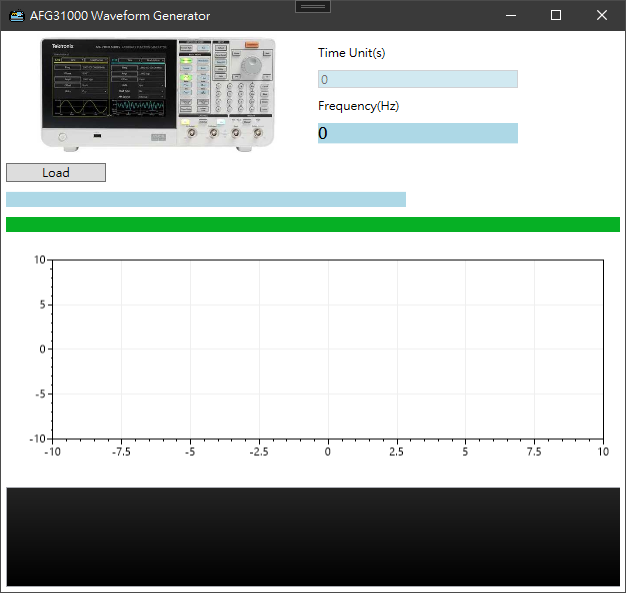
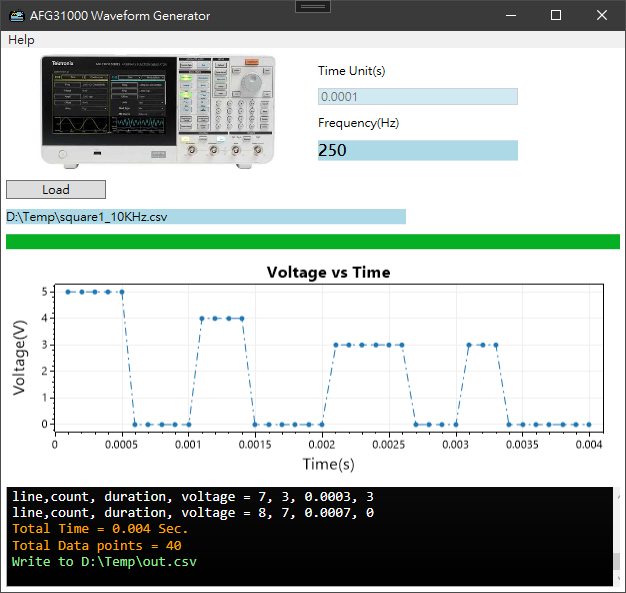
App Update
- add help
- update readme

diff --git a/AFG Waveform Editor/MainWindow.xaml b/AFG Waveform Editor/MainWindow.xaml
@@ -9,6 +9,13 @@
         xmlns:consoleControl="clr-namespace:ConsoleControl.WPF;assembly=ConsoleControl.WPF"
         Title="AFG31000 Waveform Generator" Icon="/function_generator.png" Width="640" Height="600">
     <DockPanel x:Name="mainPanel">
+        <Menu DockPanel.Dock="Top" HorizontalAlignment="Right">
+            <MenuItem Header="Help" >
+                <MenuItem Header="User Guide" Command="{Binding GotoUserGuideCommand}"/>
+                <MenuItem Header="Tektronix" Command="{Binding GotoTektronicCommand}"/>
+            </MenuItem>
+        </Menu>
+        <Separator DockPanel.Dock="Top" Height="5"></Separator>
         <UniformGrid Columns="2" DockPanel.Dock="Top">
             <StackPanel>
                 <Image Source="/AFG31000-Arbitrary-Function-Generator.png" Width="240"/>
@@ -24,6 +31,7 @@
                 </StackPanel>
             </StackPanel>
         </UniformGrid>
+        <Separator DockPanel.Dock="Top" Height="5"></Separator>
         <StackPanel  DockPanel.Dock="Top" HorizontalAlignment="Left">
             <Button Command="{Binding LoadFileCommand}" Width="100" Margin="5,5,5,5" HorizontalAlignment="Left">Load</Button>
             <TextBlock Text="{Binding InputFilePath}" Margin="5,5,5,5" Background="LightBlue" MinWidth="400"></TextBlock>

diff --git a/AFG Waveform Editor/InternetHelper.cs b/AFG Waveform Editor/InternetHelper.cs
@@ -1,0 +1,48 @@
+using System;
+using System.Diagnostics;
+using System.Net.Http;
+using System.Threading.Tasks;
+
+namespace Internet
+{
+    public class InternetHelper
+    {
+        public static string TestUrl { get; set; } = "http://www.google.com"; // Replace with the URL you want to check
+
+        public static async Task<bool> AvailableAsync(int timeout = 1000)
+        {
+            using (HttpClient client = new HttpClient())
+            {
+                try
+                {
+                    client.Timeout = TimeSpan.FromMilliseconds(timeout);
+                    HttpResponseMessage response = await client.GetAsync(TestUrl);
+
+                    if (response.IsSuccessStatusCode)
+                    {
+                        return true;
+                    }
+                    else
+                    {
+                        return false;
+                    }
+                }
+                catch (HttpRequestException ex)
+                {
+                    return false;
+                }
+            }
+        }
+
+        public static void OpenUrl(string url)
+        {
+            // https://stackoverflow.com/questions/502199/how-to-open-a-web-page-from-my-application
+            // For .NET Core, the default for ProcessStartInfo.UseShellExecute has changed from true to false, and so you have to explicitly set it to true for this to work;
+            Process.Start(new ProcessStartInfo
+            {
+                FileName = url,
+                UseShellExecute = true
+            });
+        }
+    }
+}

diff --git a/AFG Waveform Editor/ViewModel.cs b/AFG Waveform Editor/ViewModel.cs
@@ -1,5 +1,6 @@
 using CommunityToolkit.Mvvm.ComponentModel;
 using CommunityToolkit.Mvvm.Input;
+using Internet;
 using Microsoft.Win32;
 using ScottPlot;
 using ScottPlot.Plottable;
@@ -213,5 +214,18 @@ namespace AFG_Waveform_Editor
             WpfPlot1.Plot.AxisAuto();
             WpfPlot1.Refresh();
         }
+
+        #region Help
+        [RelayCommand]
+        public void GotoUserGuide(object? param)
+        {
+            InternetHelper.OpenUrl(@"https://github.com/billwanggithub/AFG31000-WaveForm-Converter");
+        }
+        [RelayCommand]
+        public void GotoTektronic(object? param)
+        {
+            InternetHelper.OpenUrl(@"https://www.tek.com/en/products/signal-generators/arbitrary-function-generator/afg31000");
+        }
+        #endregion
     }
 }
